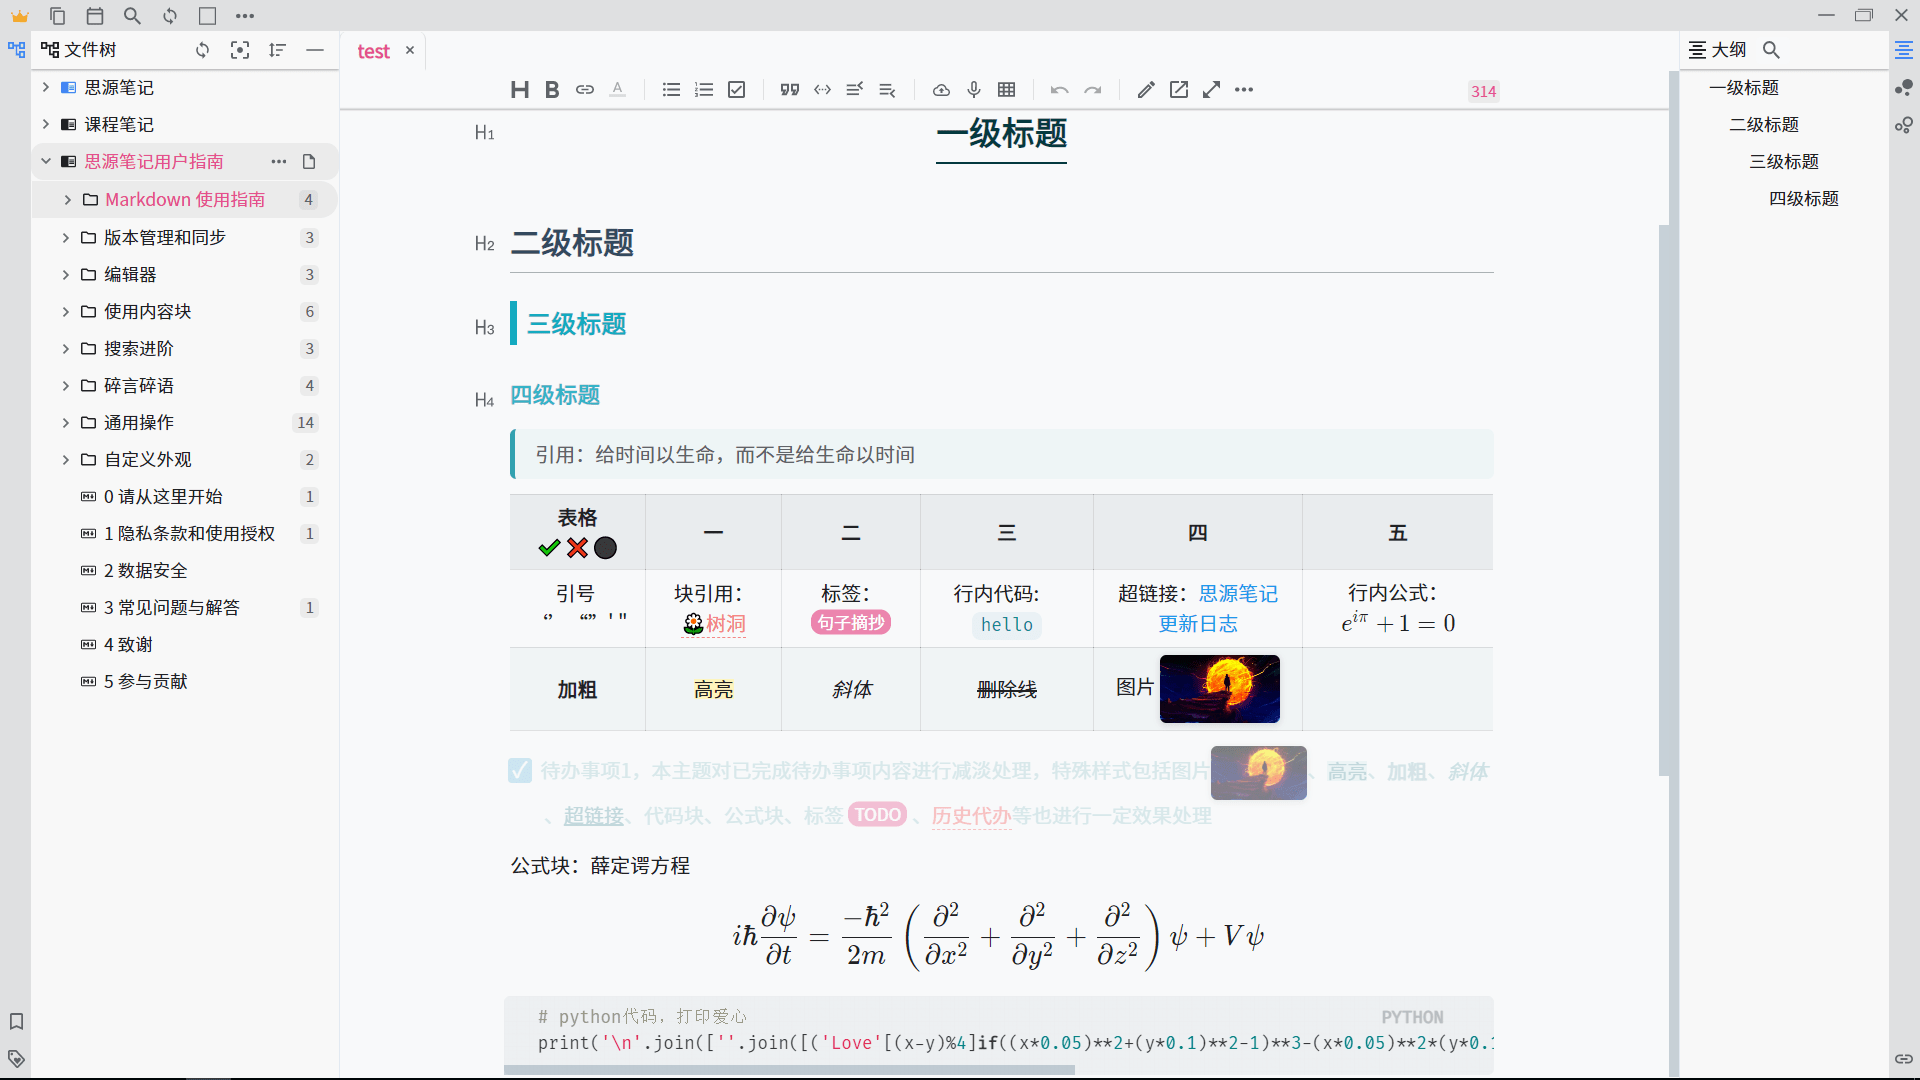
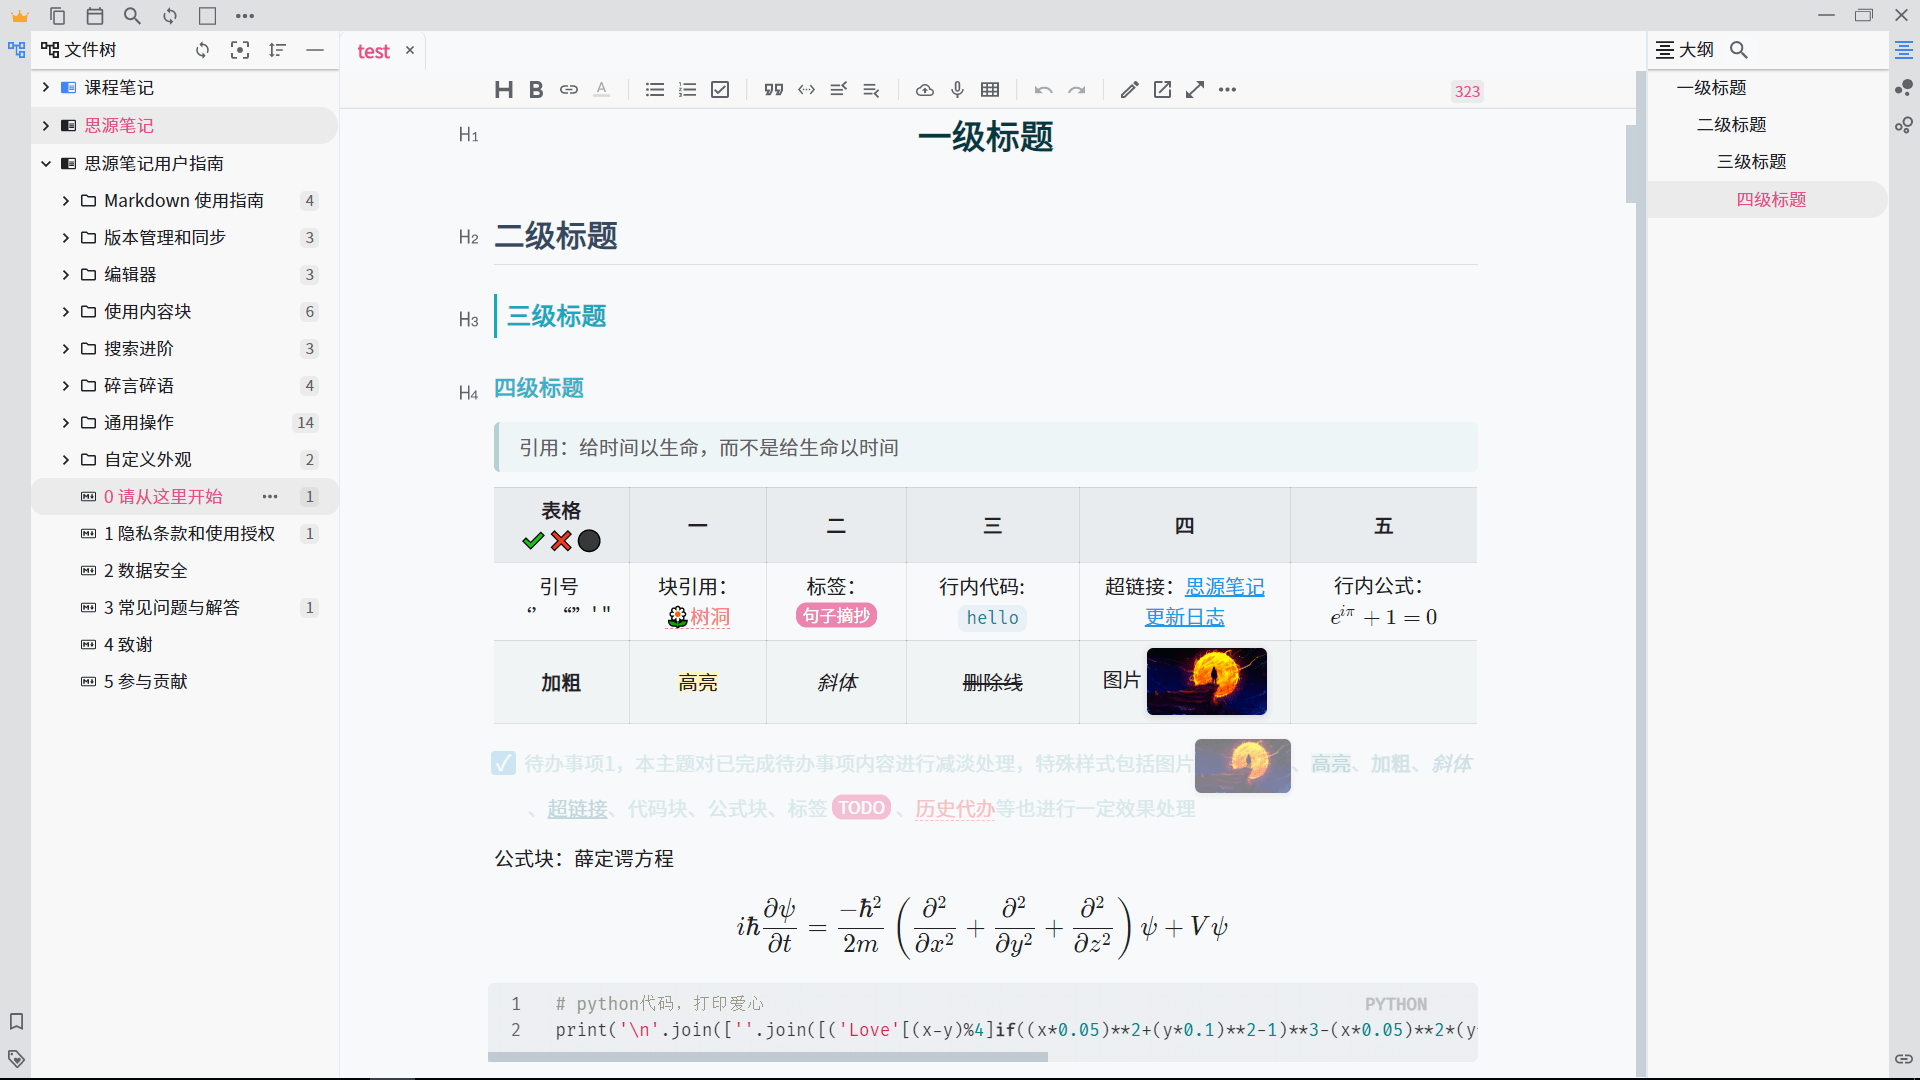
v0.2.2

diff --git a/theme.css b/theme.css
@@ -44,7 +44,8 @@
 
     /* 列表 */
     --b3-list-hover: rgba(0, 0, 0, 0.05);
-
+    /* 文件树高亮颜色 */
+    --b3-menu-hover: #ebebeb;
     /* 页签 */
     --b3-tab-background: #f8f9fa;
     --b3-tab-background-hover: #e9eaeb;
@@ -73,10 +74,10 @@
     /* 阴影 */
     --b3-point-shadow: 0 3px 1px -2px rgba(0, 0, 0, 0.2), 0px 2px 2px 0px rgba(0, 0, 0, 0.14),
         0px 1px 5px 0px rgba(0, 0, 0, 0.12);
-    --b3-dialog-shadow: 0px 11px 15px -7px rgba(0, 0, 0, 0.2), 0px 24px 38px 3px rgba(0, 0, 0, 0.14),
+    --b3-dialog-shadow: 1px 11px 15px -7px rgba(0, 0, 0, 0.2), 0px 24px 38px 3px rgba(0, 0, 0, 0.14),
         0px 9px 46px 8px rgba(0, 0, 0, 0.12);
-    --b3-toolbar-shadow: 0 1px 1px rgba(0, 0, 0, 0.2);
-    --b3-card-shadow: 0px 0px 3px rgba(0, 0, 0, 0.2);
+    --b3-toolbar-shadow: 1px 1px 1px rgba(0, 0, 0, 0.2);
+    --b3-card-shadow: 0px 0px 5px  rgba(0, 0, 0, 0.2);
     /* diff */
     --b3-diff-add: #dfd;
     --b3-diff-add-surface: #97f295;
@@ -149,10 +150,7 @@
     fill: transparent;
 }
 
-.vditor-toolbar {
-    background-color: var(--b3-theme-background) !important;
-    box-shadow: var(--b3-toolbar-shadow);
-}
+
 .item--focus {
     background-color: var(--b3-theme-background) !important;
 }
@@ -177,7 +175,7 @@
 }
 /* 引用块修改 */
 blockquote {
-    border-left: 0.25em solid rgb(46, 160, 175) !important;
+    border-left: 0.25em solid #b5cfd3 !important;
     border-radius: 0.31em;
     background-color: rgba(66, 185, 185, 0.05) !important;
     padding-left: 1em !important;
@@ -237,7 +235,7 @@ blockquote {
     border-radius: 4px;
     height: 15px;
     min-width: 15px;
-    background-color: var(--b3-text-emphasize-color);
+    background-color: var(--b3-list-hover);
     color: var(--b3-theme-on-surface);
     font-size: 10px;
     line-height: 15px;
@@ -261,7 +259,7 @@ blockquote {
 /* 块引用 */
 .vditor-ir__blockref {
     color: var(--b3-vditor-inline-blockref-color);
-    padding-bottom: 0.2em;
+    padding-bottom: 0.1em;
     border-bottom: 1px dashed var(--b3-vditor-inline-blockref-color) !important;
 }
 .vditor-ir__blockref:hover {
@@ -277,7 +275,7 @@ blockquote {
 /* 超链接样式 */
 .vditor-ir__link {
     color: #1d99ec;
-    text-decoration: none;
+    /* text-decoration: none; */
 }
 
 /* 分割线显示 */
@@ -305,17 +303,17 @@ blockquote {
 }
 /* 行内公式字体大小 */
 [data-type='inline-math'] .katex {
-    font: normal 1.06em KaTeX_Main, Times New Roman, serif !important;
+    font: normal 1em KaTeX_Main, Times New Roman, serif !important;
 }
 [data-type='inline-math'] .MathJax {
-    font: normal 1.25em KaTeX_Main, Times New Roman, serif !important;
+    font: normal 1em KaTeX_Main, Times New Roman, serif !important;
 }
 /* 公式块字体大小 */
 [data-type='math-block'] .katex {
-    font: normal 1.25em KaTeX_Main, Times New Roman, serif !important;
+    font: normal 1.15em KaTeX_Main, Times New Roman, serif !important;
 }
 [data-type='math-block'] .MathJax {
-    font-size: 1.5em !important;
+    font-size: 1.15em !important;
 }
 /* ❗代码块样式 */
 /* 代码编辑区样式 */
@@ -333,11 +331,16 @@ blockquote {
     padding-left: 2em !important;
 }
 /* 缩进代码编辑区和公式块 */
-.vditor-reset
-    code:not(.hljs):not([data-type='math-inline']):not([data-newline='1']):not([class='b3-label__text']) {
+.vditor-reset code:not(.hljs):not([data-type='math-inline']):not([data-newline='1']):not([class='b3-label__text']) {
     padding-left: 2em;
 }
-
+/* 暂时先把预览模式的code都去掉，发现v1.1的预览模式都没有加类 */
+.vditor-preview .vditor-reset code {
+    padding-left: 0.5em;
+}
+.vditor-preview .vditor-preview .hljs {
+    padding-left: 2em;
+}
 /* 考虑显示行号时的缩进 */
 .vditor-linenumber {
     padding-left: 4em !important;
@@ -438,29 +441,31 @@ blockquote {
     color: #8cb5bb;
 }
 /* 对完成的待办事项内容全部调整透明度 */
-.vditor-task--done{
+.vditor-task--done {
     opacity: 0.5;
 }
 /* 复选框 End  */
 
 /* ❗标题样式 */
 .vditor-reset h1 {
+    /* 如果需要左侧对齐，直接把下面一行注释*/
     text-align: center;
-    border-bottom: 0px solid #fff !important;
-    font-size: 1.64em;
+    border-bottom: 0px solid #c5c7ca !important;
+    font-size: 1.7em;
     color: #04393f;
 }
-.vditor-reset h1:after {
+/* .vditor-reset h1:after {
     content: '';
     display: block;
     margin: 0.2em auto 0;
     width: 4em;
     height: 2px;
     border-bottom: 2px solid #04393f;
-}
+} */
+
 .vditor-ir h2 {
     /* text-align: center; */
-    border-bottom: 1px solid var(--b3-text-border-color) !important;
+    border-bottom: 1px solid #dfe0e1 !important;
     font-size: 1.55em !important;
     color: #34495e;
 }
@@ -469,7 +474,7 @@ blockquote {
     font-size: 1.25em;
     color: rgb(21, 170, 191);
     line-height: 1.25em;
-    border-left: 6px solid rgb(21, 170, 191);
+    border-left: 3px solid rgb(21, 170, 191);
     text-align: justify;
     padding: 5px 0px 5px 7px;
     margin-top: 23px;
@@ -508,20 +513,24 @@ blockquote {
 .ft__primary:hover,
 .block__icon.b3-tooltips.b3-tooltips__sw:hover {
     color: #e34f8c;
-    background-color: #ebebeb !important;
+    background-color: var(--b3-menu-hover) !important;
 }
 
+/* 文件树选中的外围 */
 div[data-type='navigation'] .b3-list-item--focus,
 .vditor-reset .b3-list-item--focus {
-    background-color: #ebebeb !important;
+    background-color: var(--b3-menu-hover) !important;
 }
 
 /* focus高亮样式 */
-/* 文件树选中中间的部分 */
+/* 文件树选中的中间文字的部分 */
 .b3-list-item.b3-list-item--hide-action.b3-list-item--focus span:nth-child(2) {
     font-weight: 800;
     font-size: 15px;
-    background-color: #ebebeb !important;
+    background-color: var(--b3-menu-hover) !important;
+}
+.b3-list-item.b3-list-item--hide-action.b3-list-item--focus span:hover {
+    background-color: var(--b3-menu-hover) !important;
 }
 /* ❗标签页样式 */
 .layout-tab-bar .item {
@@ -592,27 +601,12 @@ div[data-type='navigation'] .b3-list-item--focus,
 .b3-list--background .b3-list-item--focus {
     border-radius: 0 15px 15px 0;
     border: 1px solid #f8f8f8;
+    border-left: 0px solid #ebebeb;
 }
 /* end */
 
 /* ❗标签样式 */
 
-/* .vditor-reset span[data-type='tag'] {
-    display: inline-block;
-    font-size: 0.8em;
-    line-height: 1em;
-    background-color: var(--b3-vditor-inline-tag-color);
-    border-radius: 0.625em;
-    padding: 0.25em 0.375em;
-    margin: 0em 0.25em 0.2em;
-    cursor: pointer;
-    white-space: nowrap;
-}
-.vditor-ir__tag {
-    text-decoration: none;
-    background-color: var(--b3-vditor-inline-tag-color);
-    color: rgb(219, 54, 54);
-} */
 
 .vditor-ir span[data-type='tag'] {
     display: inline-block;
@@ -796,4 +790,30 @@ code[class~='language-git']::before {
 
 code[class~='language-txt']::before {
     content: 'TXT';
+}
+/* 调整列表间距 */
+.vditor-reset li p {
+    margin-bottom: 2px;
+}
+/* 调整设置的select按钮 */
+.b3-tab-container .b3-select {
+    background-color: #e1e7eb;
+}
+
+.b3-tab-container .b3-select option {
+    background-color: #edf2f5;
+}
+
+/* 块引用悬浮动画 */
+.block__popover.block__popover--move.block__popover--open {
+    animation: showBlock .4s ease;
+}
+@keyframes showBlock {
+    0% {
+        border-radius: 50%;
+        transform: rotateY(80deg);
+    }
+    100% {
+        border-radius: 0;
+    }
 }

diff --git a/Readme.md b/Readme.md
@@ -15,11 +15,24 @@
 
 ⚠前排提示：
 - 如果需要**更改字体**，请在主题文件夹下的 theme.css 中，`--b3-font-family:'SourceHan',... ` 将思源黑体删除、置后或更改
-- 如果需要完成任务列表自动添加的删除线，可以自行添加删除线（`Ctrl+D`），或者自行修改主题：搜索"完成的待办事项删除线",将`/* text-decoration: line-through; */`取消注释注释
+- 任务列表完成默认无删除线，如果需要完成任务列表自动添加的删除线，可以自行添加删除线（`Ctrl+D`），或者自行修改主题：搜索"完成的待办事项删除线",将`/* text-decoration: line-through; */`取消注释注释
+- 由于个人习惯一级标题作为文章标题索所以默认为居中，可能对习惯把一级标题作为正文标题的童鞋不太友好，可以搜索`标题样式`，将h1`.vditor-reset h1 {text-align: center;...}`中的`text-align: center;`改为`/* text-align: center; */`以注释，并将`.vditor-reset h1:after {...}`样式全部删掉
 
 ---
 
-## v0.2.0/2021-3-8
+## v0.2.2/2021-3-8
+
+- 调整引用块边框颜色
+- 块旁边显示的数字加边框
+- 一级标题去掉下划线保持居中，二级横线颜色调整，三级竖线调细
+- 列表间距调整
+- 超链接添加下划线
+- 调整数学公式块大小
+- 修复预览模式的行内代码左侧凸出的问题
+- 调整块引用卡片的阴影
+- 添加块引用悬浮动画
+  
+## v0.2.1/2021-3-8
 
 - 多窗口当前页面标签页添加底框
 - 对待办列表中的代码块复制按钮进行透明度调整
